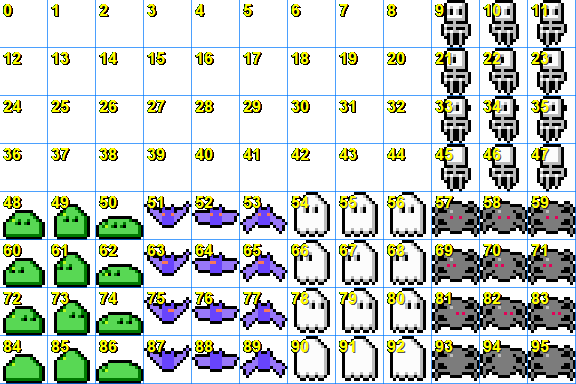
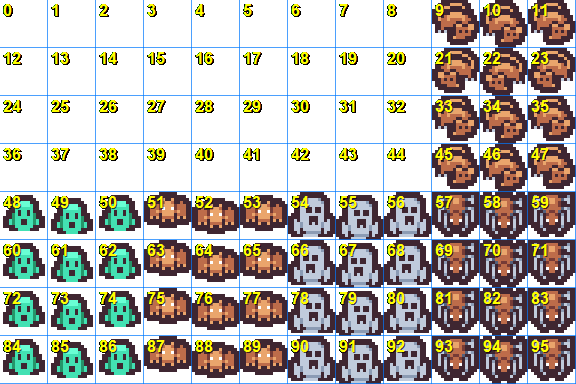
Zelda: Kenney's Tiny Dungeon
The sheets keep their grids and tile ids, so the room and door code is unchanged.
Tiny Dungeon's characters have one frame each: walking bobs them a pixel, left mirrors
right, and the sword swing, turned doors, hearts, key and pressed switch are made from
the pack. The hero is 16 pixels, so its collision box is its lower 12 and the head
rises 4 above it. The skeleton enemy becomes a rat.

Claude-Session: https://claude.ai/code/session_012sjsUQBbC7zon57rWHoo9d

diff --git a/07-the-legend-of-zelda/Zelda5/GameSettings.cs b/07-the-legend-of-zelda/Zelda5/GameSettings.cs
@@ -21,10 +21,10 @@ public static class GameSettings
 
     // Player
     public const int   PlayerWidth         = 16;
-    public const int   PlayerHeight        = 22;
+    public const int   PlayerHeight        = 12;
     public const int   PlayerWalkSpeed     = 60;
     public const int   PlayerStartHealth   = 6;     // three hearts × 2 per heart
-    public const float PlayerSpriteOffsetY = 5f;    // sprite extends above collision box (perspective)
+    public const float PlayerSpriteOffsetY = 12f;   // 8 px of room in the frame for the sword, and the head 4 px above the collision box (perspective)
     public const float PlayerSwordOffsetX  = 8f;    // sword sprite (32px) centred over collision box (16px)
 
     // Room transition: duration in seconds for the camera shift between rooms

diff --git a/07-the-legend-of-zelda/Zelda6/GameSettings.cs b/07-the-legend-of-zelda/Zelda6/GameSettings.cs
@@ -21,10 +21,10 @@ public static class GameSettings
 
     // Player
     public const int   PlayerWidth         = 16;
-    public const int   PlayerHeight        = 22;
+    public const int   PlayerHeight        = 12;
     public const int   PlayerWalkSpeed     = 60;
     public const int   PlayerStartHealth   = 6;     // three hearts × 2 per heart
-    public const float PlayerSpriteOffsetY = 5f;    // sprite extends above collision box (perspective)
+    public const float PlayerSpriteOffsetY = 12f;   // 8 px of room in the frame for the sword, and the head 4 px above the collision box (perspective)
     public const float PlayerSwordOffsetX  = 8f;    // sword sprite (32px) centred over collision box (16px)
 
     // Room transition: duration in seconds for the camera shift between rooms

diff --git a/07-the-legend-of-zelda/Zelda7/GameSettings.cs b/07-the-legend-of-zelda/Zelda7/GameSettings.cs
@@ -21,10 +21,10 @@ public static class GameSettings
 
     // Player
     public const int   PlayerWidth         = 16;
-    public const int   PlayerHeight        = 22;
+    public const int   PlayerHeight        = 12;
     public const int   PlayerWalkSpeed     = 60;
     public const int   PlayerStartHealth   = 6;     // three hearts × 2 per heart
-    public const float PlayerSpriteOffsetY = 5f;    // sprite extends above collision box (perspective)
+    public const float PlayerSpriteOffsetY = 12f;   // 8 px of room in the frame for the sword, and the head 4 px above the collision box (perspective)
     public const float PlayerSwordOffsetX  = 8f;    // sword sprite (32px) centred over collision box (16px)
 
     // Room transition: duration in seconds for the camera shift between rooms

diff --git a/07-the-legend-of-zelda/Zelda3/GameSettings.cs b/07-the-legend-of-zelda/Zelda3/GameSettings.cs
@@ -21,10 +21,10 @@ public static class GameSettings
 
     // Player
     public const int   PlayerWidth         = 16;
-    public const int   PlayerHeight        = 22;
+    public const int   PlayerHeight        = 12;
     public const int   PlayerWalkSpeed     = 60;
     public const int   PlayerStartHealth   = 6;     // three hearts × 2 per heart
-    public const float PlayerSpriteOffsetY = 5f;    // sprite extends above collision box (perspective)
+    public const float PlayerSpriteOffsetY = 12f;   // 8 px of room in the frame for the sword, and the head 4 px above the collision box (perspective)
     public const float PlayerSwordOffsetX  = 8f;    // sword sprite (32px) centred over collision box (16px)
 
     // Sword reach: how far the hitbox extends in front of the player

diff --git a/07-the-legend-of-zelda/Zelda4/GameSettings.cs b/07-the-legend-of-zelda/Zelda4/GameSettings.cs
@@ -21,10 +21,10 @@ public static class GameSettings
 
     // Player
     public const int   PlayerWidth         = 16;
-    public const int   PlayerHeight        = 22;
+    public const int   PlayerHeight        = 12;
     public const int   PlayerWalkSpeed     = 60;
     public const int   PlayerStartHealth   = 6;     // three hearts × 2 per heart
-    public const float PlayerSpriteOffsetY = 5f;    // sprite extends above collision box (perspective)
+    public const float PlayerSpriteOffsetY = 12f;   // 8 px of room in the frame for the sword, and the head 4 px above the collision box (perspective)
     public const float PlayerSwordOffsetX  = 8f;    // sword sprite (32px) centred over collision box (16px)
 
     // Sword reach: how far the hitbox extends in front of the player

diff --git a/07-the-legend-of-zelda/Zelda2/GameSettings.cs b/07-the-legend-of-zelda/Zelda2/GameSettings.cs
@@ -21,10 +21,10 @@ public static class GameSettings
 
     // Player
     public const int   PlayerWidth         = 16;
-    public const int   PlayerHeight        = 22;
+    public const int   PlayerHeight        = 12;
     public const int   PlayerWalkSpeed     = 60;
     public const int   PlayerStartHealth   = 6;     // three hearts × 2 per heart
-    public const float PlayerSpriteOffsetY = 5f;    // sprite extends above collision box (perspective)
+    public const float PlayerSpriteOffsetY = 12f;   // 8 px of room in the frame for the sword, and the head 4 px above the collision box (perspective)
     public const float PlayerSwordOffsetX  = 8f;    // sword sprite (32px) centred over collision box (16px)
 
     // Room generation

diff --git a/07-the-legend-of-zelda/Zelda1/GameSettings.cs b/07-the-legend-of-zelda/Zelda1/GameSettings.cs
@@ -21,10 +21,10 @@ public static class GameSettings
 
     // Player
     public const int   PlayerWidth         = 16;
-    public const int   PlayerHeight        = 22;
+    public const int   PlayerHeight        = 12;
     public const int   PlayerWalkSpeed     = 60;
     public const int   PlayerStartHealth   = 6;     // three hearts × 2 per heart
-    public const float PlayerSpriteOffsetY = 5f;    // sprite extends above collision box (perspective)
+    public const float PlayerSpriteOffsetY = 12f;   // 8 px of room in the frame for the sword, and the head 4 px above the collision box (perspective)
     public const float PlayerSwordOffsetX  = 8f;    // sword sprite (32px) centred over collision box (16px)
 
     // UI text layout

diff --git a/07-the-legend-of-zelda/README.md b/07-the-legend-of-zelda/README.md
@@ -108,6 +108,9 @@ Or open `TheLegendOfZelda.slnx` and choose the step to run.
 
 ## Credits
 
-The art, sounds and music are our own, made for the course. The font is
+The art is Kenney's [Tiny Dungeon](https://kenney.nl/assets/tiny-dungeon) (CC0), laid out in
+the game's sheets: the walking bob, the sword swing, the turned doors, the hearts, the key and
+the pressed switch are ours, made from it. The sounds and music are our own, made for the
+course. The font is
 [Press Start 2P](https://fonts.google.com/specimen/Press+Start+2P) by CodeMan38, under the
 SIL Open Font License (see `Content/Assets/fonts/retro-OFL.txt`).
